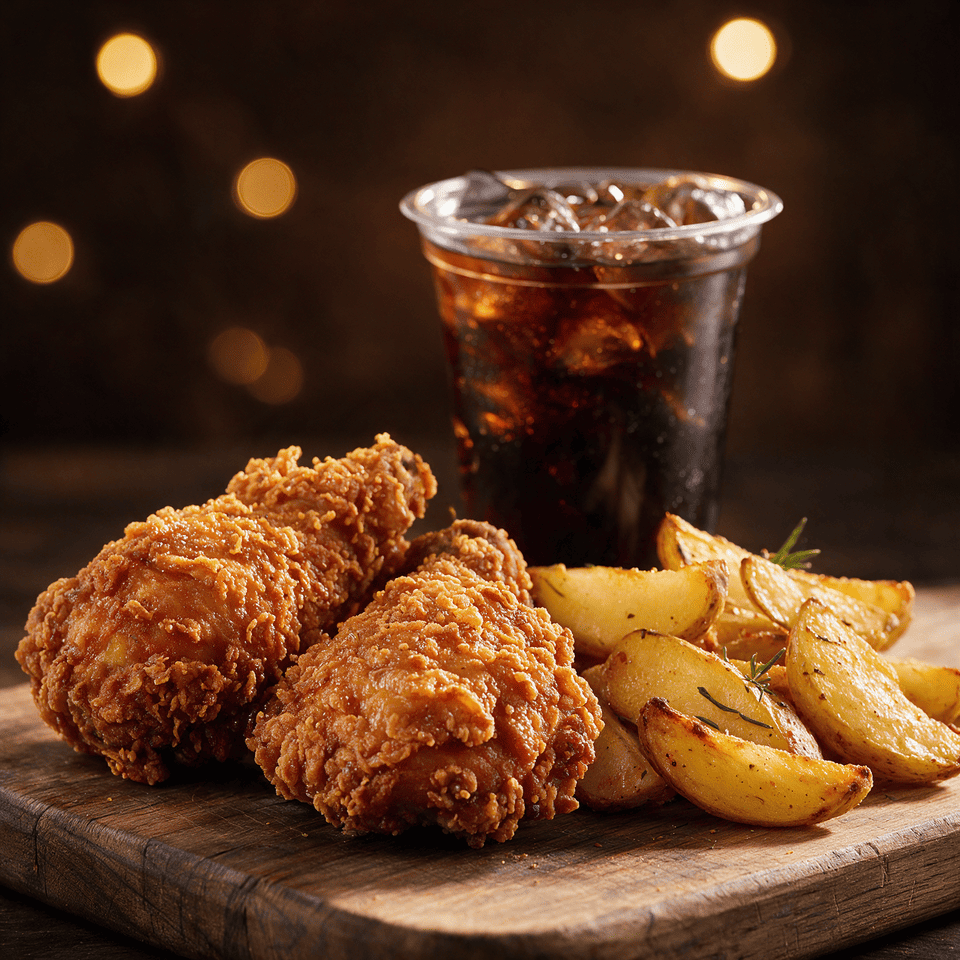
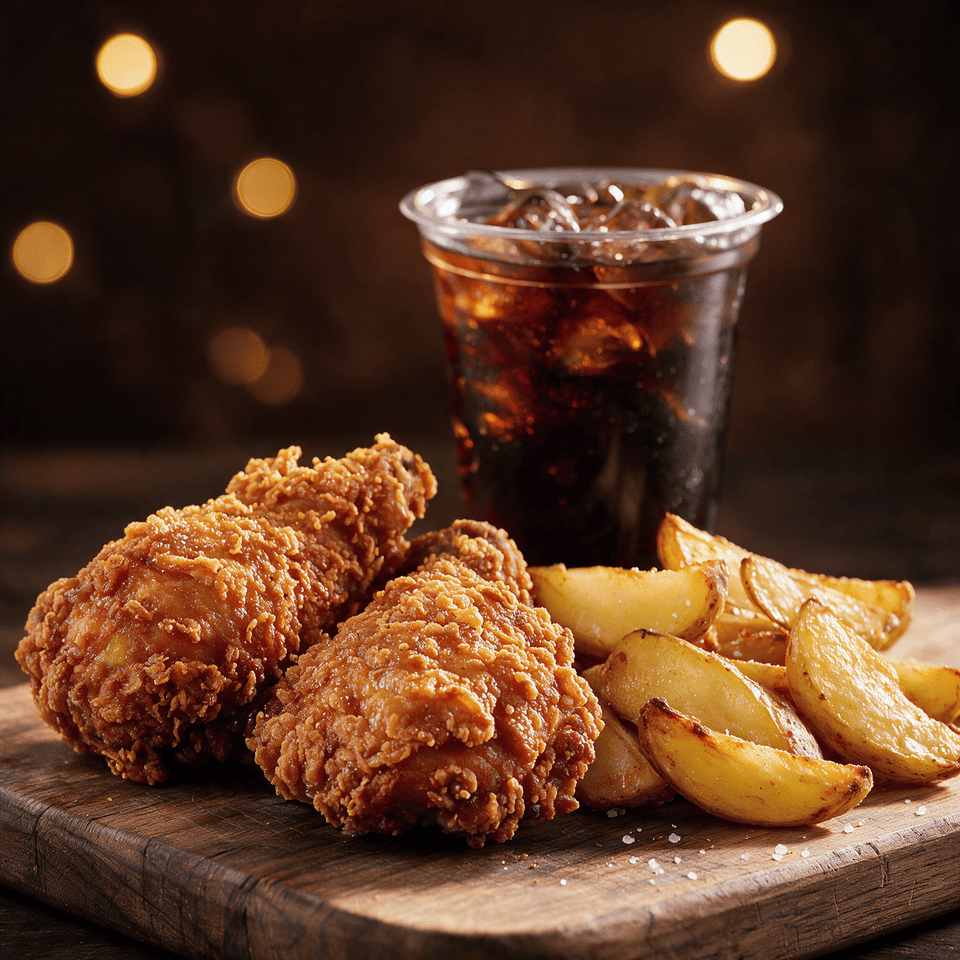
Nuevas fotos de combos y porción de patatas (PNG, patatas sin hierbas y con sal)
- Reemplaza los JPG de Triple/Mega Crunch, Combo Mini, Lowcost, Combos Alitas y
  Porción de Patatas por las versiones editadas en PNG
- Actualiza las rutas de imagen en main.js
- Ignora la carpeta de respaldo assets/img/menuBAK

Claude-Session: https://claude.ai/code/session_012Je4gmzffisA6hsPn6UuYt

diff --git a/assets/js/main.js b/assets/js/main.js
@@ -161,12 +161,12 @@
       desc: '2 piezas de pollo + 1 ración de patatas + bebida.' },
 
     { cat: 'Pollo', name: 'Triple Crunch', price: '8,99 €',
-      img: 'assets/img/menu/02-triplecronch.jpg',
+      img: 'assets/img/menu/02-triplecronch.png',
       alt: 'Combo Triple Crunch: tres piezas de pollo crujiente con patatas y bebida',
       desc: '3 piezas de pollo + 1 ración de patatas + bebida.' },
 
     { cat: 'Pollo', name: 'Mega Crunch', price: '16,95 €',
-      img: 'assets/img/menu/03-megacronch.jpg',
+      img: 'assets/img/menu/03-megacronch.png',
       alt: 'Combo Mega Crunch: seis piezas de pollo crujiente con patatas y bebidas',
       desc: '6 piezas de pollo + 2 raciones de patatas + 2 bebidas.' },
 
@@ -181,27 +181,27 @@
       desc: '12 piezas de pollo + 2 raciones de patatas + 1 bebida grande.' },
 
     { cat: 'Pollo', name: 'Combo Mini', price: '3,99 €',
-      img: 'assets/img/menu/06-combo-mini.jpg',
+      img: 'assets/img/menu/06-combo-mini.png',
       alt: 'Combo Mini: una pieza de pollo crujiente con patatas y bebida',
       desc: '1 pieza de pollo + 1 ración de patatas + bebida.' },
 
     { cat: 'Pollo', name: 'Lowcost', price: '4,99 €',
-      img: 'assets/img/menu/08-lowcost.jpg',
+      img: 'assets/img/menu/08-lowcost.png',
       alt: 'Combo Lowcost: pieza de pollo con arroz y patatas',
       desc: '1 pieza de pollo + 1 ración de arroz + 1 ración de patatas.' },
 
     { cat: 'Alitas', name: 'Combo 1 Alitas', price: '3,99 €',
-      img: 'assets/img/menu/07-combo1-alitas.jpg',
+      img: 'assets/img/menu/07-combo1-alitas.png',
       alt: 'Combo de tres alitas de pollo crujientes con patatas y bebida',
       desc: '3 alitas + 1 ración de patatas + bebida.' },
 
     { cat: 'Alitas', name: 'Combo 2 Alitas', price: '6 €',
-      img: 'assets/img/menu/09-combo2-alitas.jpg',
+      img: 'assets/img/menu/09-combo2-alitas.png',
       alt: 'Combo de seis alitas de pollo crujientes con patatas y bebida',
       desc: '6 alitas + 1 ración de patatas + bebida.' },
 
     { cat: 'Alitas', name: 'Combo 3 Alitas', price: '10,99 €',
-      img: 'assets/img/menu/10-combo3-alitas.jpg',
+      img: 'assets/img/menu/10-combo3-alitas.png',
       alt: 'Combo de doce alitas de pollo crujientes con patatas y dos bebidas',
       desc: '12 alitas + 1 ración de patatas + 2 bebidas.' },
 
@@ -230,7 +230,7 @@
       desc: 'Porción individual de arroz blanco recién hecho.' },
 
     { cat: 'Porciones', name: 'Porción de Patatas Fritas', price: '3 €',
-      img: 'assets/img/menu/14-porcion-patata.jpg',
+      img: 'assets/img/menu/14-porcion-patata.png',
       alt: 'Porción de patatas fritas doradas',
       desc: 'Porción individual de patatas fritas doradas y crujientes.' },
 
